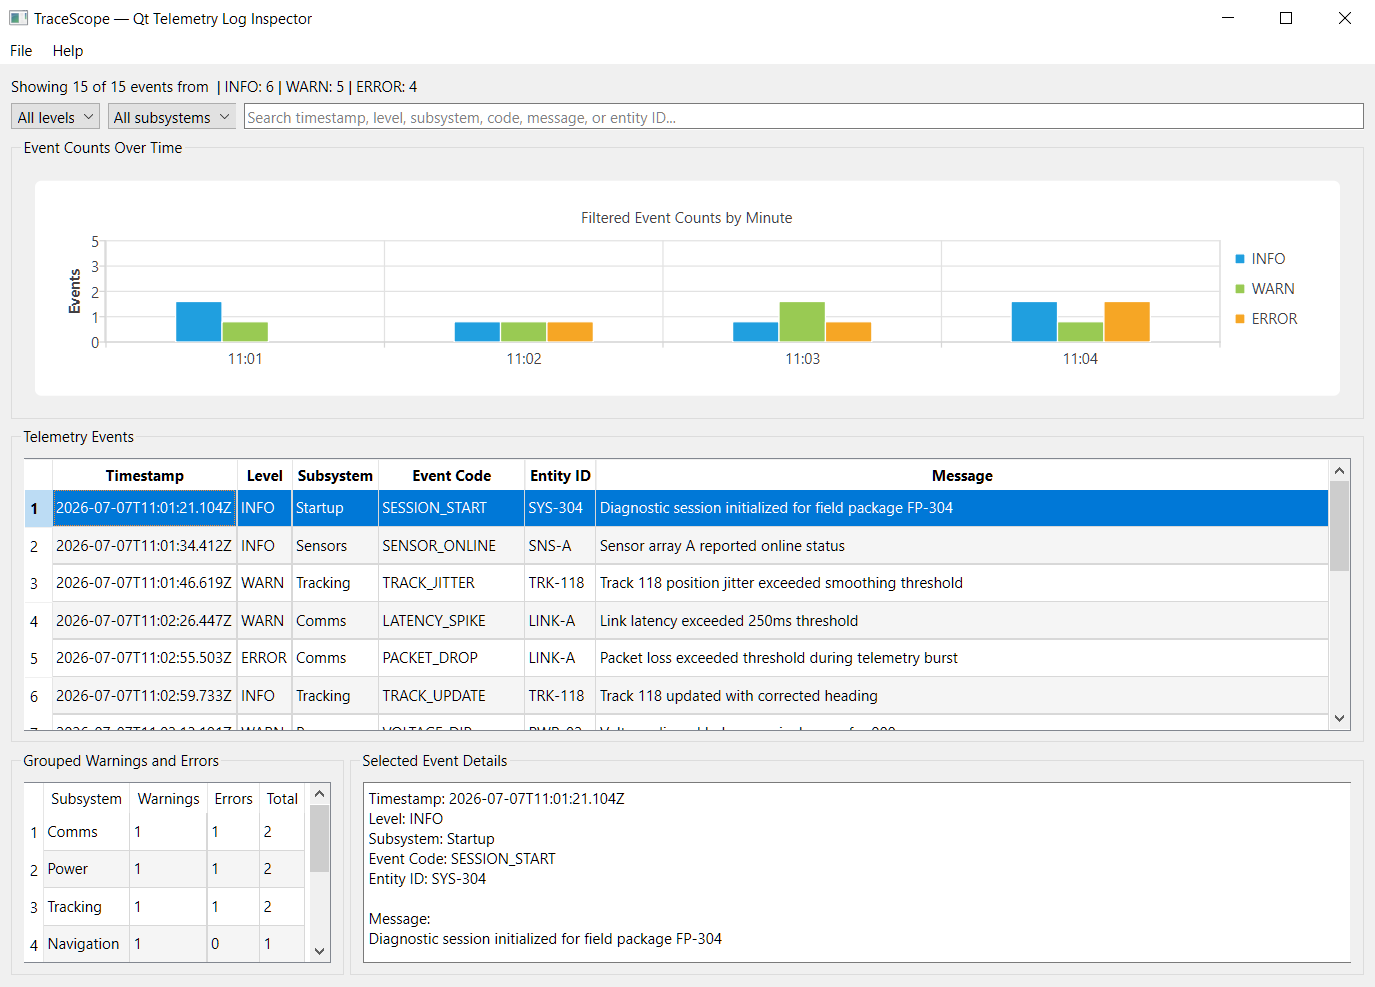
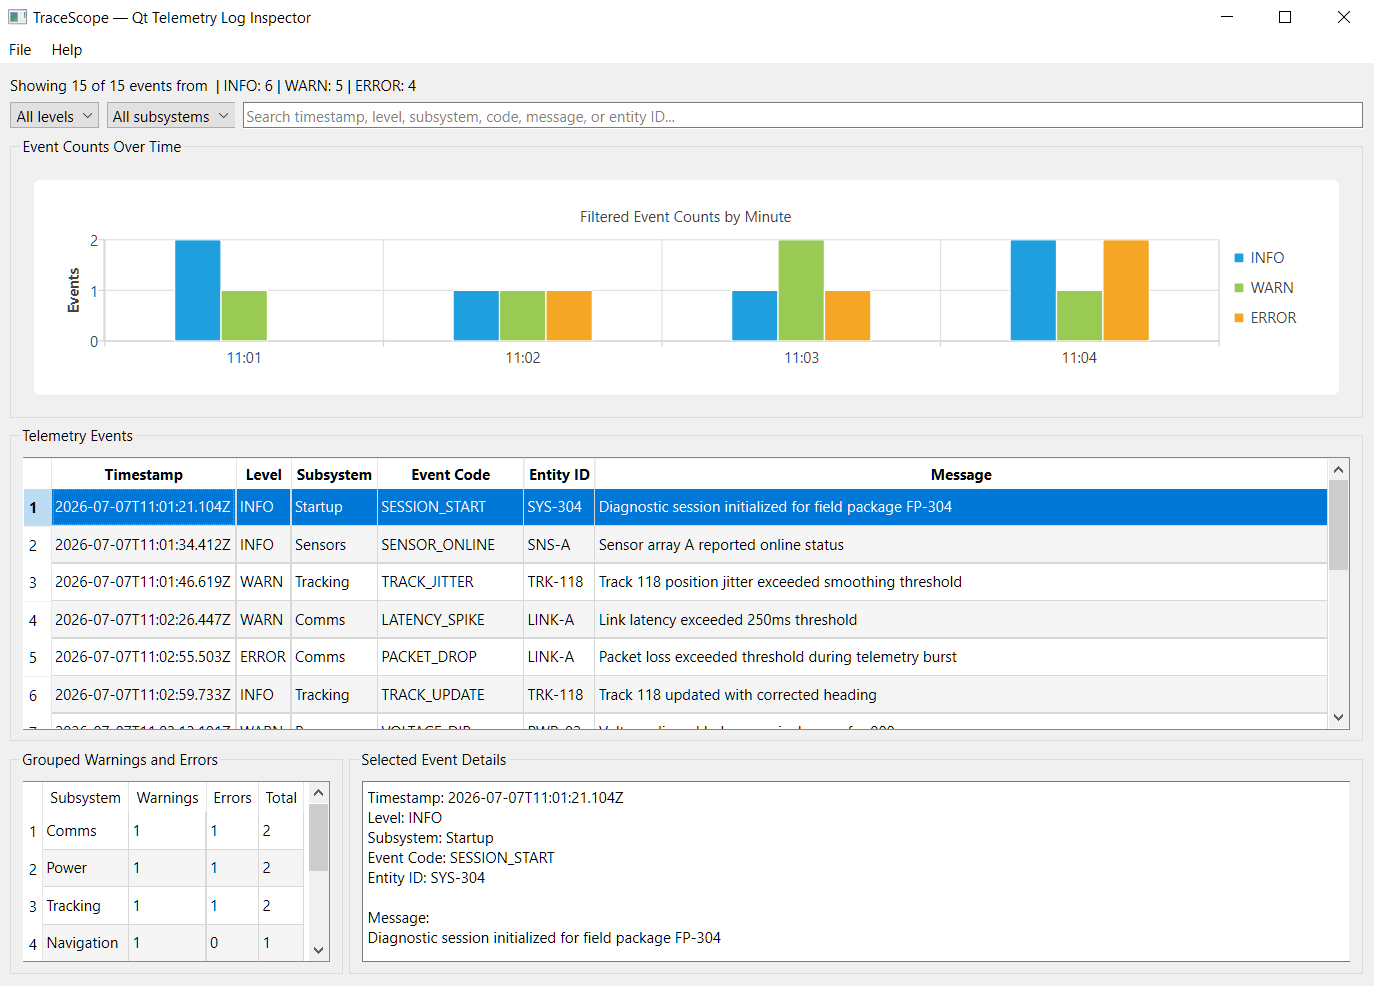
Fix timeline chart y-axis scaling

diff --git a/src/MainWindow.cpp b/src/MainWindow.cpp
@@ -568,13 +568,19 @@ void MainWindow::updateTimelineChart(const QVector<TelemetryEvent> &events)
     axisY->setTitleText("Events");
     axisY->setLabelFormat("%d");
 
-    int maxTotal = 1;
+    int maxCount = 1;
 
     for (const EventCountBucket &bucket : buckets) {
-        maxTotal = std::max(maxTotal, bucket.totalCount());
+        maxCount = std::max(maxCount, bucket.infoCount);
+        maxCount = std::max(maxCount, bucket.warningCount);
+        maxCount = std::max(maxCount, bucket.errorCount);
     }
 
-    axisY->setRange(0, maxTotal);
+    axisY->setRange(0, maxCount);
+    axisY->setTickType(QValueAxis::TicksDynamic);
+    axisY->setTickAnchor(0);
+    axisY->setTickInterval(1);
+
     chart->addAxis(axisY, Qt::AlignLeft);
     series->attachAxis(axisY);
 
